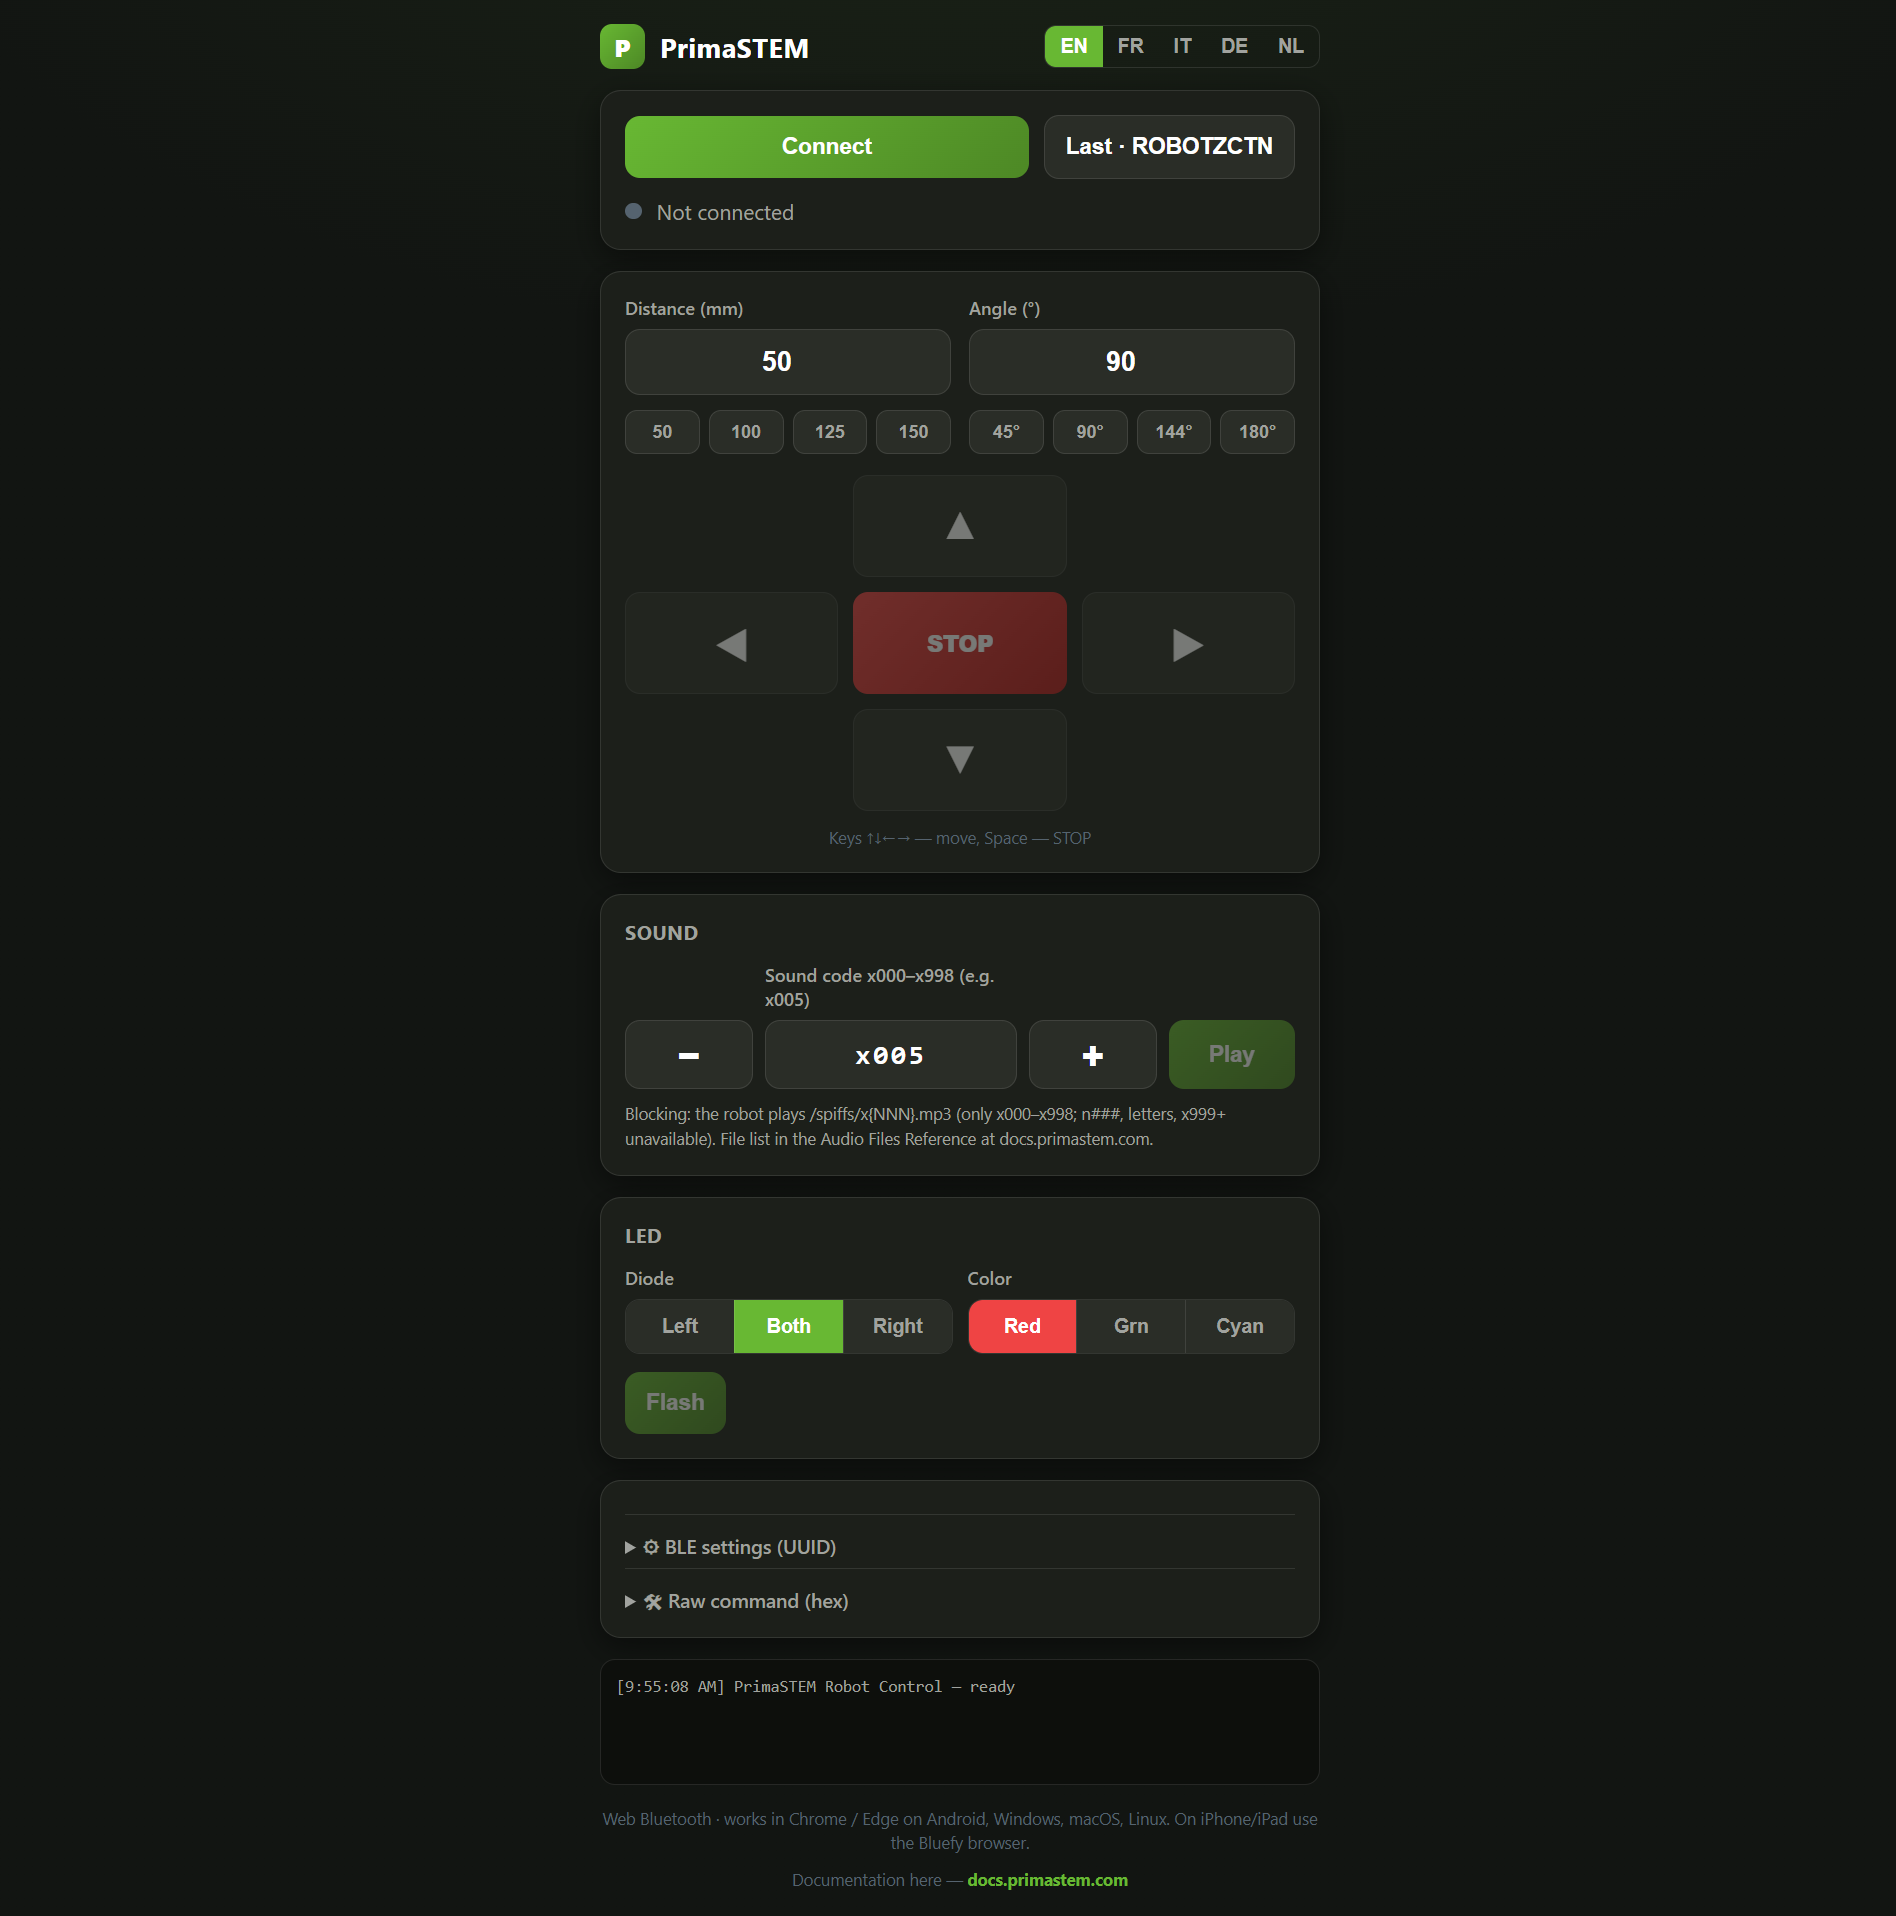
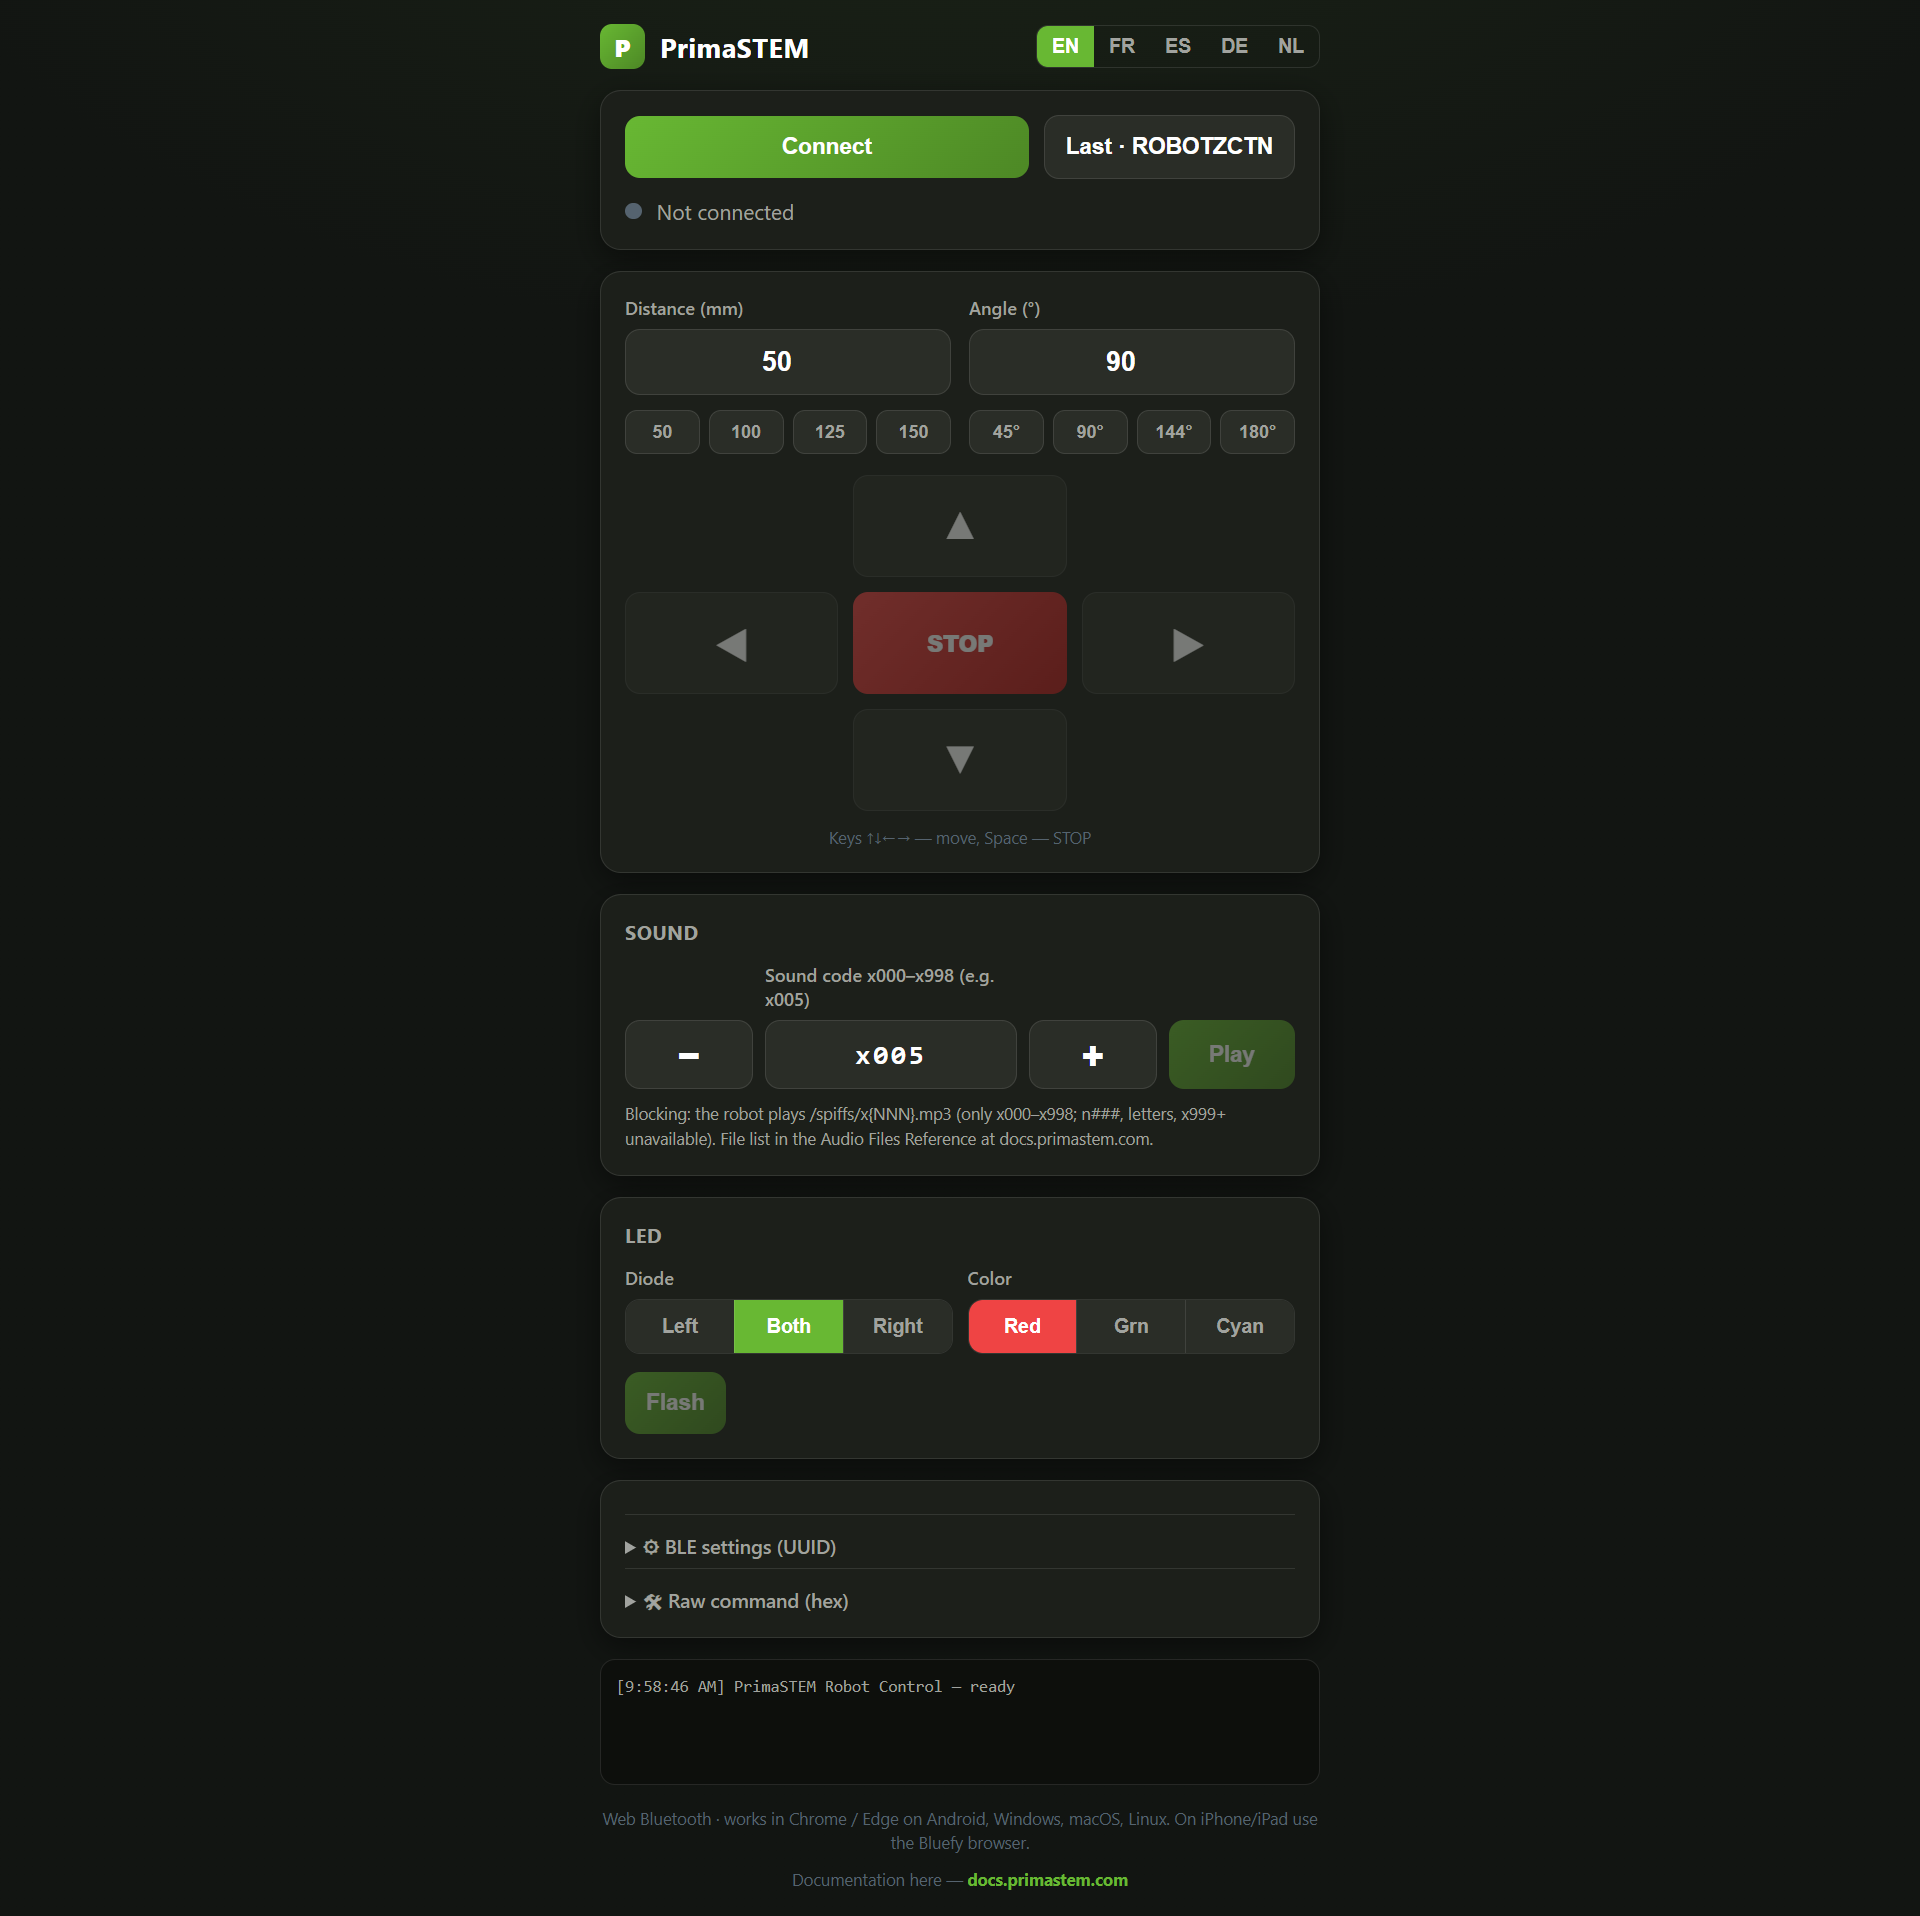
Язык UI: заменён IT на ES (теперь EN/FR/ES/DE/NL)
- Переключатель: кнопка IT -> ES
- I18N: словарь it заменён полным es (испанский)
- setLang: список кодов it -> es
- README (EN/RU): Italiano -> Español
- assets/screenshot.png пересняn

Проверено в браузере: все 5 языков, у каждого все ключи на месте
(missingKeys пусто), нет непереведённых, консоль чистая,
стар. ps_lang='ru' откатывается на en.

diff --git a/index.html b/index.html
@@ -127,7 +127,7 @@
   <div class="lang">
     <button id="lang-en" class="active" onclick="setLang('en')">EN</button>
     <button id="lang-fr" onclick="setLang('fr')">FR</button>
-    <button id="lang-it" onclick="setLang('it')">IT</button>
+    <button id="lang-es" onclick="setLang('es')">ES</button>
     <button id="lang-de" onclick="setLang('de')">DE</button>
     <button id="lang-nl" onclick="setLang('nl')">NL</button>
   </div>
@@ -266,25 +266,25 @@
 <script>
 /* ============ i18n ============ */
 const I18N = {
-  it:{connect:"Connetti",disconnect:"Disconnetti",disconnected:"Non connesso",
-      connecting:"Connessione…",connected:"Connesso · pronto",busy:"Il robot sta eseguendo…",
-      connectLast:"Ultimo",
-      distance:"Distanza (mm)",angle:"Angolo (°)",stop:"STOP",
-      kbdHint:"Tasti ↑↓←→ — movimento, Spazio — STOP",
-      ledTitle:"LED",diode:"Diodo",diodeL:"Sinistro",diodeR:"Destro",diodeB:"Entrambi",
-      color:"Colore",colR:"Ros",colG:"Ver",colB:"Ciano",ledApply:"Flash",
-      soundTitle:"Suono",soundFile:"Codice suono x000–x998 (es. x005)",play:"Riproduci",
-      soundHint:"Bloccante: il robot riproduce /spiffs/x{NNN}.mp3 (solo x000–x998; n###, lettere, x999+ non disponibili). Elenco nell’Audio Files Reference su docs.primastem.com.",
-      advanced:"⚙ Impostazioni BLE (UUID)",svc:"Servizio",cmd:"Comando",state:"Stato",
-      uuidHint:"UUID a 128 bit reali del firmware. Modificali solo se il firmware ne usa altri — poi riconnettiti.",
-      rawTitle:"🛠 Comando grezzo (hex)",rawType:"type",rawSend:"Invia",
-      rawBytes:"9 byte hex (sovrascrive i campi sopra)",
-      rawHint:"type/main/second accettano dec o 0x.. — il pacchetto è costruito in LE (9 byte). Il campo «9 byte hex» invia i byte così come sono — per testare cmd_lvl (0x06) e altri. Non bloccante.",
-      watchdogWarn:"⚠ Watchdog: nessuno stato «free» entro {n}s — comandi sbloccati.",
-      foot:"Web Bluetooth · funziona in Chrome / Edge su Android, Windows, macOS, Linux. Su iPhone/iPad tramite il browser Bluefy.",
-      docsLabel:"Documentazione qui —",
-      noWebBT:"⚠ Questo browser non supporta Web Bluetooth. Apri la pagina in Chrome o Edge (PC/Android), oppure nel browser Bluefy su iOS.",
-      needHTTPS:"⚠ Web Bluetooth non funziona aprendo il file direttamente (file://). Serve HTTPS o localhost: ospita il file su GitHub Pages / il tuo sito via https://, oppure avvia un server locale (python -m http.server) e apri http://localhost:8000."},
+  es:{connect:"Conectar",disconnect:"Desconectar",disconnected:"No conectado",
+      connecting:"Conectando…",connected:"Conectado · listo",busy:"El robot está ejecutando…",
+      connectLast:"Último",
+      distance:"Distancia (mm)",angle:"Ángulo (°)",stop:"PARAR",
+      kbdHint:"Teclas ↑↓←→ — movimiento, Espacio — PARAR",
+      ledTitle:"LED",diode:"Diodo",diodeL:"Izquierdo",diodeR:"Derecho",diodeB:"Ambos",
+      color:"Color",colR:"Roj",colG:"Ver",colB:"Cian",ledApply:"Destello",
+      soundTitle:"Sonido",soundFile:"Código de sonido x000–x998 (p. ej. x005)",play:"Reproducir",
+      soundHint:"Bloqueante: el robot reproduce /spiffs/x{NNN}.mp3 (solo x000–x998; n###, letras, x999+ no disponibles). Lista en el Audio Files Reference en docs.primastem.com.",
+      advanced:"⚙ Ajustes BLE (UUID)",svc:"Servicio",cmd:"Comando",state:"Estado",
+      uuidHint:"UUID de 128 bits reales del firmware. Cámbialos solo si el firmware usa otros — luego reconéctate.",
+      rawTitle:"🛠 Comando en bruto (hex)",rawType:"type",rawSend:"Enviar",
+      rawBytes:"9 bytes hex (sustituye los campos de arriba)",
+      rawHint:"type/main/second aceptan dec o 0x.. — el paquete se construye en LE (9 bytes). El campo «9 bytes hex» envía los bytes tal cual — para probar cmd_lvl (0x06) y otros. No bloqueante.",
+      watchdogWarn:"⚠ Watchdog: no llegó el estado «free» en {n}s — controles desbloqueados.",
+      foot:"Web Bluetooth · funciona en Chrome / Edge en Android, Windows, macOS, Linux. En iPhone/iPad mediante el navegador Bluefy.",
+      docsLabel:"Documentación aquí —",
+      noWebBT:"⚠ Este navegador no admite Web Bluetooth. Abre la página en Chrome o Edge (PC/Android), o en el navegador Bluefy en iOS.",
+      needHTTPS:"⚠ Web Bluetooth no funciona al abrir el archivo directamente (file://). Necesita HTTPS o localhost: aloja el archivo en GitHub Pages / tu sitio vía https://, o inicia un servidor local (python -m http.server) y abre http://localhost:8000."},
   de:{connect:"Verbinden",disconnect:"Trennen",disconnected:"Nicht verbunden",
       connecting:"Verbinde…",connected:"Verbunden · bereit",busy:"Roboter führt aus…",
       connectLast:"Letzter",
@@ -368,7 +368,7 @@ function t(k){return (I18N[lang]&&I18N[lang][k])||k;}
 function setLang(l){
   lang=l; localStorage.setItem('ps_lang',l);
   document.documentElement.lang=l;
-  ['en','fr','it','de','nl'].forEach(code=>{
+  ['en','fr','es','de','nl'].forEach(code=>{
     const b=document.getElementById('lang-'+code);
     if(b) b.classList.toggle('active',l===code);
   });

diff --git a/README.ru.md b/README.ru.md
@@ -21,7 +21,7 @@
 - **Светодиоды** — левый / оба / правый диод в красном / зелёном / голубом, плюс действие *Вспышка*.
 - **Сырой отправитель команд** — ручная сборка любого 9-байтового пакета (`type` / `main` / `second` или сырая hex-строка) для исследования протокола.
 - **Статус busy/free** — подписка на характеристику состояния робота, блокировка интерфейса пока робот занят, и watchdog на 15 с — пропущенный `free` не «заморозит» управление.
-- **Многоязычность** — English / Français / Italiano / Deutsch / Nederlands, выбор запоминается между сессиями.
+- **Многоязычность** — English / Français / Español / Deutsch / Nederlands, выбор запоминается между сессиями.
 - **Фирменная тёмная тема PrimaSTEM**, mobile-first вёрстка.
 
 ## Быстрый старт

diff --git a/README.md b/README.md
@@ -21,7 +21,7 @@ Browser-based control panel for the PrimaSTEM educational robot over **Bluetooth
 - **LED** — left / both / right diode in red / green / cyan, plus a *Flash* action.
 - **Raw command sender** — craft any 9-byte packet by hand (`type` / `main` / `second`, or a raw hex string) for protocol probing.
 - **Busy/free status** — subscribes to the robot's state characteristic and locks the UI while the robot is busy, with a 15 s watchdog so a missed `free` never freezes the controls.
-- **Multilingual** — English / Français / Italiano / Deutsch / Nederlands, remembered across sessions.
+- **Multilingual** — English / Français / Español / Deutsch / Nederlands, remembered across sessions.
 - **PrimaSTEM dark theme**, mobile-first layout.
 
 ## Quick start
